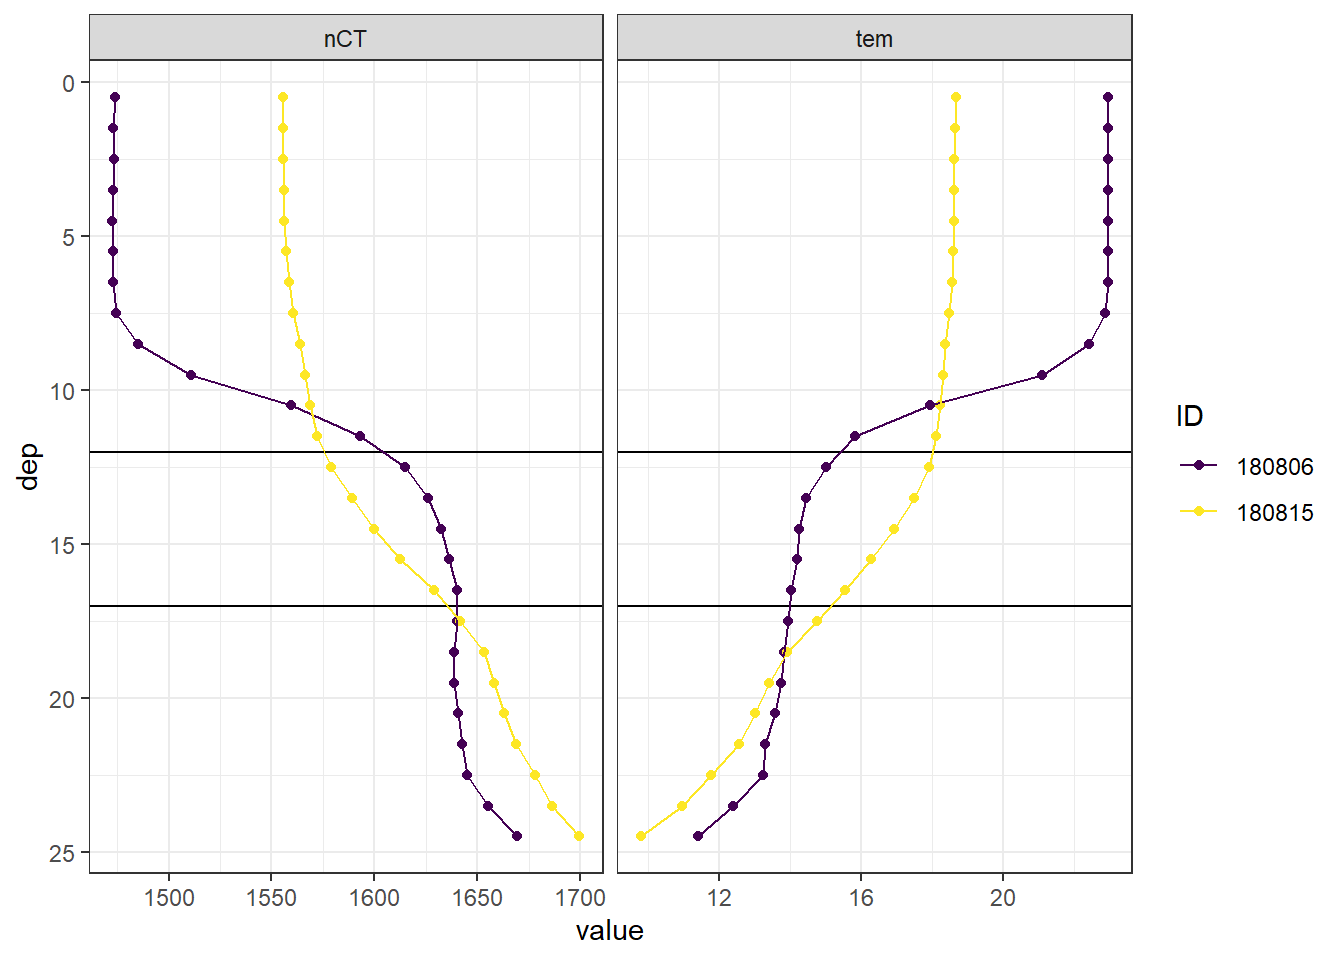
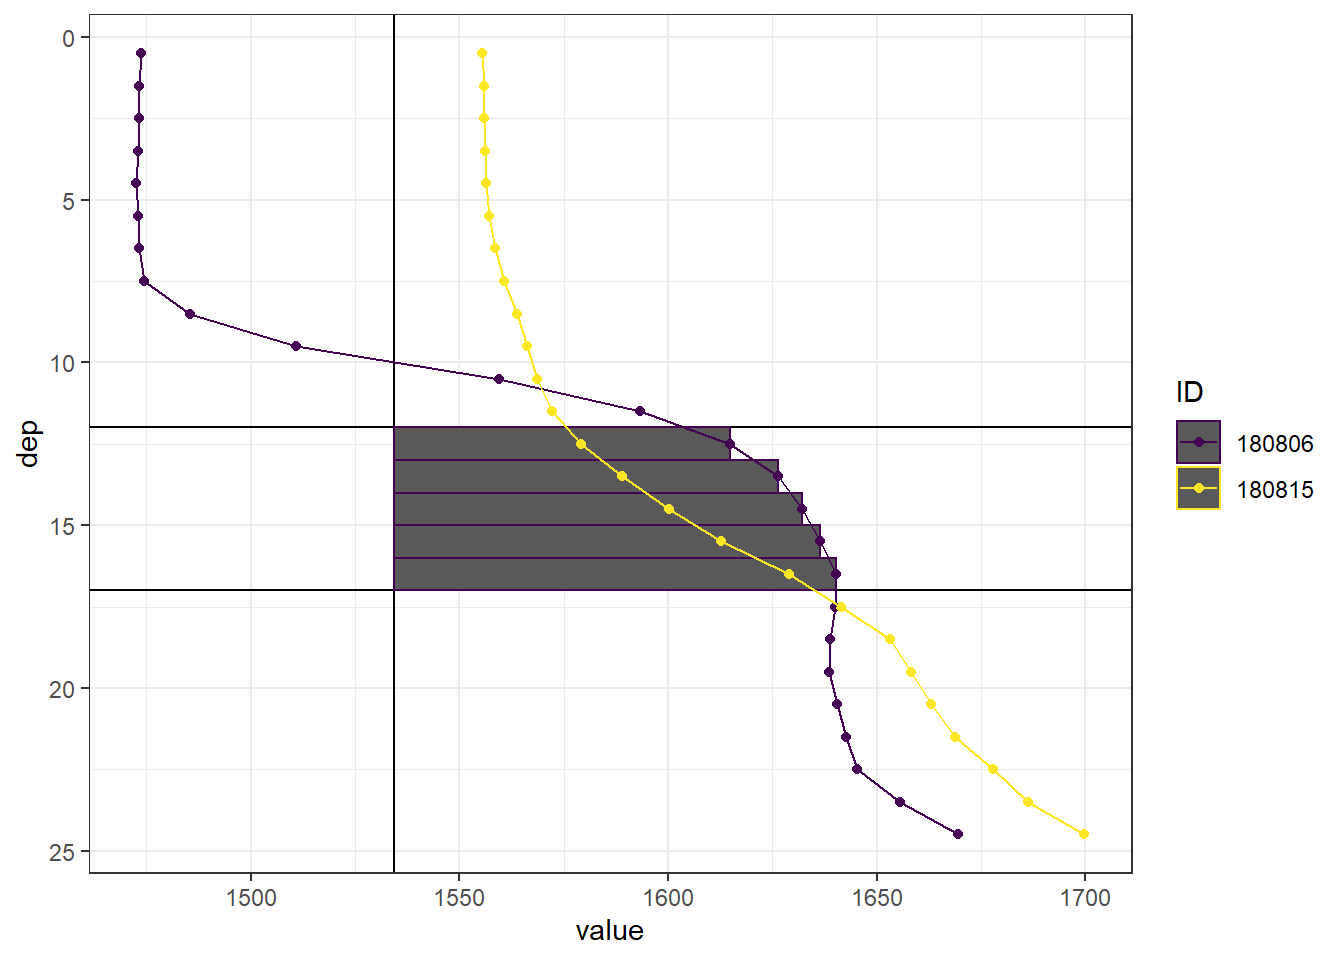
Build site.

diff --git a/docs/CT_dynamics.html b/docs/CT_dynamics.html
@@ -553,16 +553,16 @@ This reproducible <a href="http://rmarkdown.rstudio.com">R Markdown</a> analysis
 <div class="panel panel-default">
 <div class="panel-heading">
 <p class="panel-title">
-<a data-toggle="collapse" data-parent="#workflowr-checks" href="#strongRepositoryversionstrongahrefhttpsgithubcomjensdanielmuellerBloomSailtree766a349336ef1f4e8520957e9fdfba045c57ff6ftargetblank766a349a"> <span class="glyphicon glyphicon-ok text-success" aria-hidden="true"></span> <strong>Repository version:</strong> <a href="https://github.com/jens-daniel-mueller/BloomSail/tree/766a349336ef1f4e8520957e9fdfba045c57ff6f" target="_blank">766a349</a> </a>
+<a data-toggle="collapse" data-parent="#workflowr-checks" href="#strongRepositoryversionstrongahrefhttpsgithubcomjensdanielmuellerBloomSailtree2ddeb47d27196490182d8eed40a855bb1a069fc4targetblank2ddeb47a"> <span class="glyphicon glyphicon-ok text-success" aria-hidden="true"></span> <strong>Repository version:</strong> <a href="https://github.com/jens-daniel-mueller/BloomSail/tree/2ddeb47d27196490182d8eed40a855bb1a069fc4" target="_blank">2ddeb47</a> </a>
 </p>
 </div>
[2 lines of base64/hex data omitted]
 <div class="panel-body">
 <p>
 Great! You are using Git for version control. Tracking code development and connecting the code version to the results is critical for reproducibility.
 </p>
 <p>
-The results in this page were generated with repository version <a href="https://github.com/jens-daniel-mueller/BloomSail/tree/766a349336ef1f4e8520957e9fdfba045c57ff6f" target="_blank">766a349</a>. See the <em>Past versions</em> tab to see a history of the changes made to the R Markdown and HTML files.
+The results in this page were generated with repository version <a href="https://github.com/jens-daniel-mueller/BloomSail/tree/2ddeb47d27196490182d8eed40a855bb1a069fc4" target="_blank">2ddeb47</a>. See the <em>Past versions</em> tab to see a history of the changes made to the R Markdown and HTML files.
 </p>
 <p>
 Note that you need to be careful to ensure that all relevant files for the analysis have been committed to Git prior to generating the results (you can use <code>wflow_publish</code> or <code>wflow_git_commit</code>). workflowr only checks the R Markdown file, but you know if there are other scripts or data files that it depends on. Below is the status of the Git repository when the results were generated:
@@ -579,10 +579,6 @@ Ignored files:
 Untracked files:
     Untracked:  output/Plots/Figures_publication/Appendix/nCT_sensitivity_to_AT.pdf
     Untracked:  output/Plots/Figures_publication/Appendix/nCT_sensitivity_to_AT.png
-
-Unstaged changes:
-    Modified:   output/Plots/Figures_publication/Appendix/Phytoplankton_mean_total_biomass.pdf
-    Modified:   output/Plots/Figures_publication/Appendix/Phytoplankton_mean_total_biomass.png
 
 </code></pre>
 <p>
@@ -621,6 +617,40 @@ Message
 </tr>
 </thead>
 <tbody>
+<tr>
+<td>
+Rmd
+</td>
+<td>
+<a href="https://github.com/jens-daniel-mueller/BloomSail/blob/2ddeb47d27196490182d8eed40a855bb1a069fc4/analysis/CT_dynamics.Rmd" target="_blank">2ddeb47</a>
+</td>
+<td>
+jens-daniel-mueller
+</td>
+<td>
+2020-10-24
+</td>
+<td>
+mixing plot started
+</td>
+</tr>
+<tr>
+<td>
+html
+</td>
+<td>
+<a href="https://rawcdn.githack.com/jens-daniel-mueller/BloomSail/9a3f42a850f89b69d48ccdbb71e801cf70fa5ec9/docs/CT_dynamics.html" target="_blank">9a3f42a</a>
+</td>
+<td>
+jens-daniel-mueller
+</td>
+<td>
+2020-10-24
+</td>
+<td>
+Build site.
+</td>
+</tr>
 <tr>
 <td>
 html
@@ -6567,16 +6597,35 @@ NCP_flux_diff &lt;- NCP_flux %&gt;%
 <div id="vertical-mixing" class="section level3">
 <h3><span class="header-section-number">6.3.2</span> Vertical mixing</h3>
 <p>The aim is to approximate the CT entrainment flux between Aug 06 and 15. The relevant profiles are:</p>
-<pre class="r"><code>tm_profiles_ID_long %&gt;%
+<pre class="r"><code>CT_mix &lt;- tm_profiles_ID_long %&gt;%
+      filter(ID %in% c(&quot;180806&quot;),
+             var %in% c(&quot;nCT&quot;),
+             dep &lt; 17) %&gt;% 
+  summarise(mean(value)) %&gt;% 
+  pull()
+
+tm_profiles_ID_long %&gt;%
   filter(ID %in% c(&quot;180806&quot;, &quot;180815&quot;),
-         var %in% c(&quot;nCT&quot;, &quot;tem&quot;)) %&gt;%
+         var %in% c(&quot;nCT&quot;)) %&gt;%
   ggplot(aes(value, dep, col = ID)) +
   geom_hline(yintercept = c(12, 17)) +
+  geom_vline(xintercept = CT_mix) +
+  geom_rect(
+    data = tm_profiles_ID_long %&gt;%
+      filter(ID %in% c(&quot;180806&quot;),
+             var %in% c(&quot;nCT&quot;),
+             dep &lt; 17, dep &gt; 12),
+    aes(
+      xmax = value,
+      xmin = CT_mix,
+      ymax = dep + 0.5,
+      ymin = dep - 0.5
+    )
+  ) +
   geom_point() +
   geom_path() +
   scale_y_reverse() +
-  scale_color_viridis_d() +
-  facet_wrap( ~ var, scales = &quot;free_x&quot;)</code></pre>
+  scale_color_viridis_d()</code></pre>
 <p><img src="figure/CT_dynamics.Rmd/profiles_entrainment-1.png" width="672" style="display: block; margin: auto;" /></p>
 <p>The effect of mixing was derived from the mean concentration difference on Aug 06.</p>
 <pre class="r"><code># calculate mixing with deep waters, corrected for air sea fluxes
